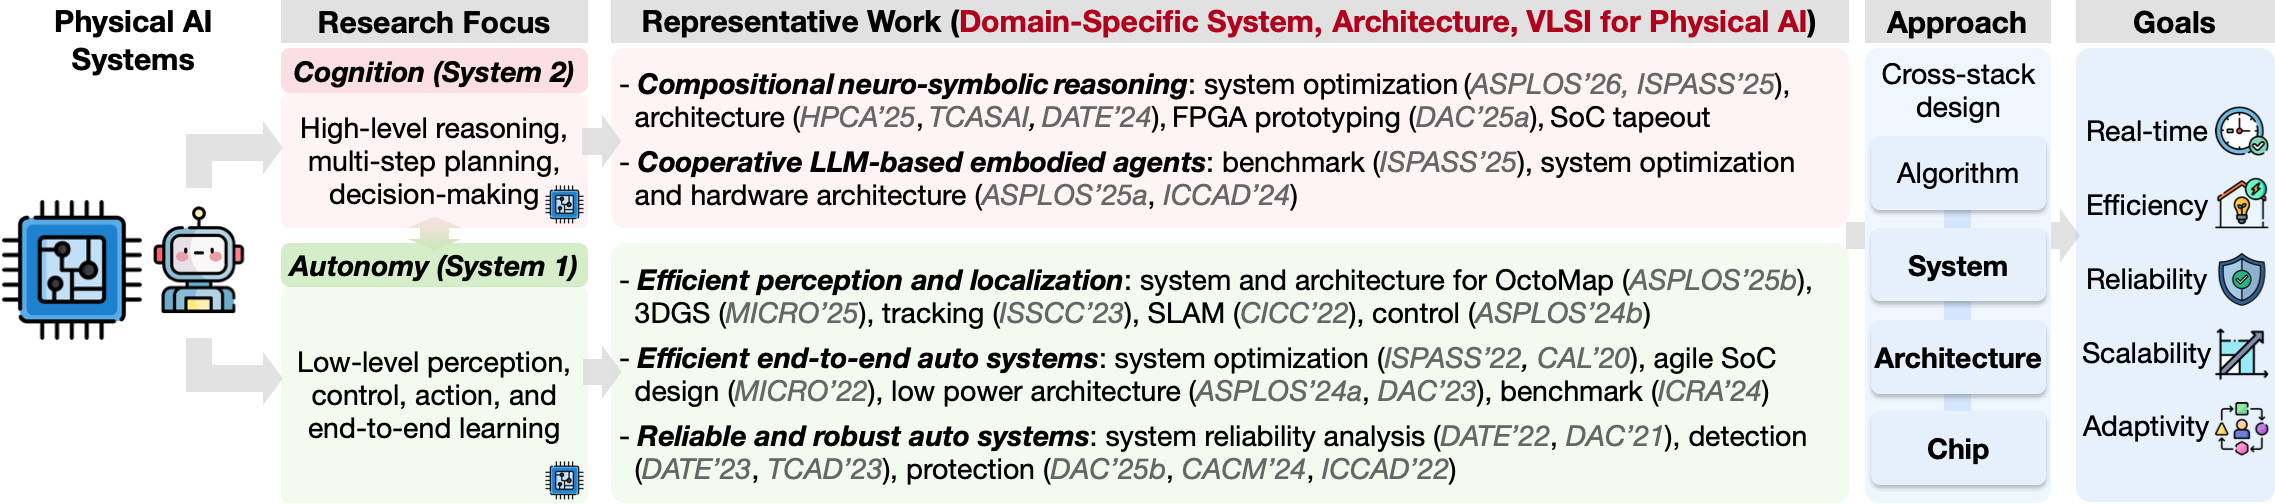
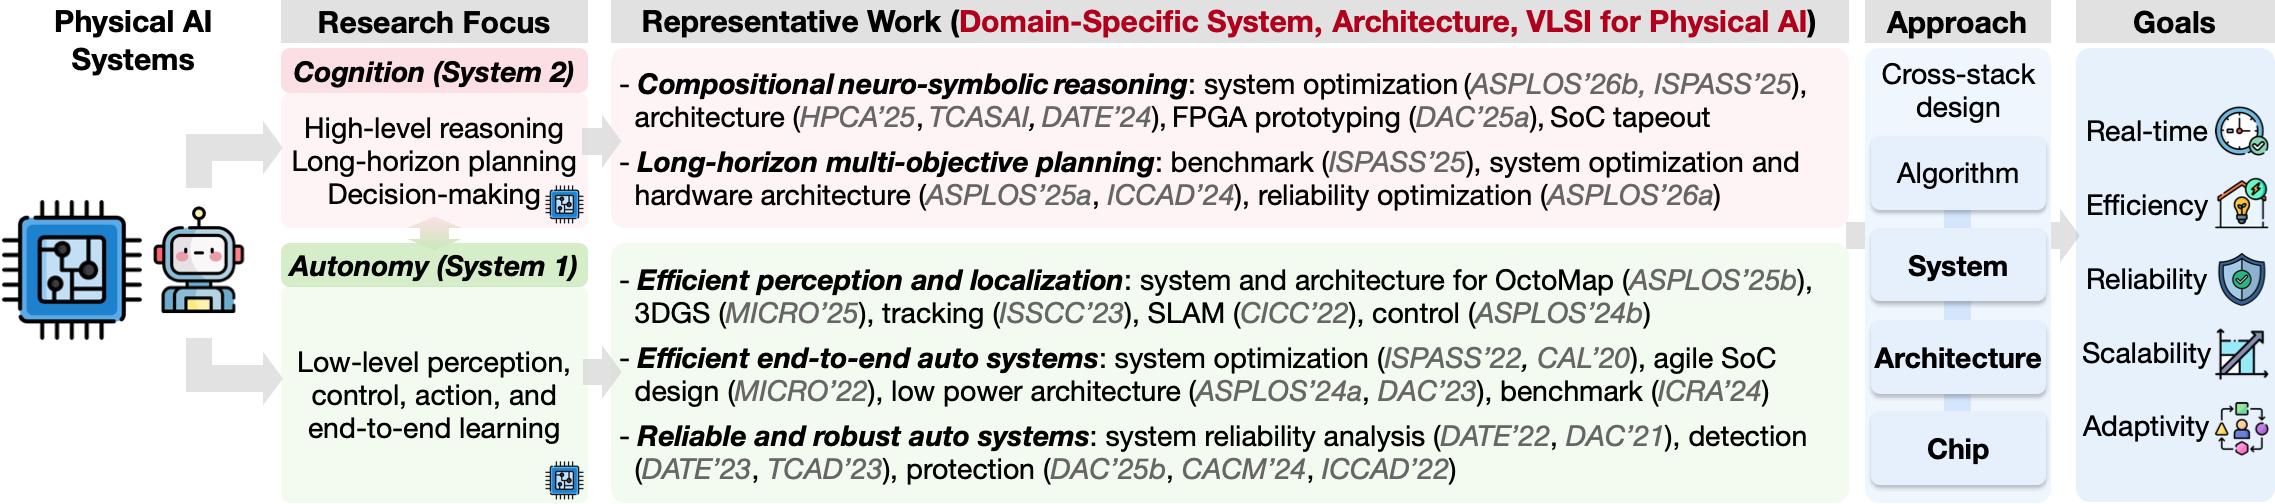
add asplos26 create paper news

Changed region(s): [[0.2809, 0.2976, 0.8114, 0.4167], [0.1248, 0.2381, 0.2497, 0.4167], [0.7178, 0.1488, 0.8114, 0.2083]]

diff --git a/index.html b/index.html
@@ -61,7 +61,8 @@
                 <li> <strong>System</strong>: <br>
                   <ul>
                   <li> 
-                  System for Resilient Autonomous Machines
+                  System for Resilient Autonomous Machines and Embodied Intelligence
+                  [ASPLOS'26a]
                   [<a href="https://dl.acm.org/doi/pdf/10.1145/3620665.3640420">ASPLOS'24a</a>]
                   [<a href="https://dl.acm.org/doi/pdf/10.1145/3647638">CACM'24</a>]
                   [<a href="https://ieeexplore.ieee.org/document/10315202">TCAD'23</a>]
@@ -76,7 +77,7 @@
                 <li> <strong>Architecture</strong>: <br>
                   <ul><li> 
                   Architecture for Neuro-Symbolic and Embodied Intelligence
-                  [ASPLOS'26]
+                  [ASPLOS'26b]
                   [<a href="https://arxiv.org/pdf/2503.01162">HPCA'25</a>]
                   [<a href="https://dl.acm.org/doi/pdf/10.1145/3676641.3716016">ASPLOS'25a</a>]
                   [<a href="https://arxiv.org/pdf/2504.19323">DAC'25a</a>]
@@ -131,8 +132,8 @@
                 <heading>News</heading>  
                 <div style="height:500px;overflow-y:auto"> 
                 <p></p><ul>
+                <li> [Oct. 2025] <b style="color:#3EA055;">[Paper]</b> Our work "CREATE: Cross-Layer Resilience Characterization and Optimization for Efficient yet Reliable Embodied AI Systems" accepted to <strong>ASPLOS 2026</strong>.</li> 
                 <li> [Oct. 2025] <b style="color:Orange;">[Talk]</b> I'm selected to present <a href="publication/DAC_PhD_Forum_Poster_Zishen_Wan.pdf"><papertitle>Tailored Computing: Domain-Specific Architecture for Embodied Intelligence</papertitle></a> at MICRO PhD Forum.</li>
-                <li> [Sep. 2025] <b style="color:#3EA055;">[Paper]</b> Our perspective paper "Breaking the Memory Wall: Next-Generation AI Hardware" accepted to <strong>Frontiers in Science</strong>.</li> 
                 <li> [Sep. 2025] <b style="color:Orange;">[Talk]</b> I give a talk on <a href="https://effi-nesy.github.io/"><papertitle>System Implications and Opportunities for Compositional Neuro-Symbolic-Probabilistic AI</papertitle></a> at Georgia Tech.</li>
                 <li> [Jul. 2025] <b style="color:#3EA055;">[Paper]</b> Our work <a href="https://arxiv.org/pdf/2510.06644"><papertitle>RTGS: Real-Time 3D Gaussian Splatting SLAM via Multi-Level Redundancy Reduction</papertitle></a> accepted to <strong>MICRO 2025</strong>.</li> 
                 <li> [Jul. 2025] <b style="color:Orange;">[Talk]</b> I give talks on <a href="https://effi-nesy.github.io/"><papertitle>Demystifying Neuro-Symbolic AI for SW/HW Co-Design</papertitle></a> at University of Notre Dame and Purdue University.</li>
